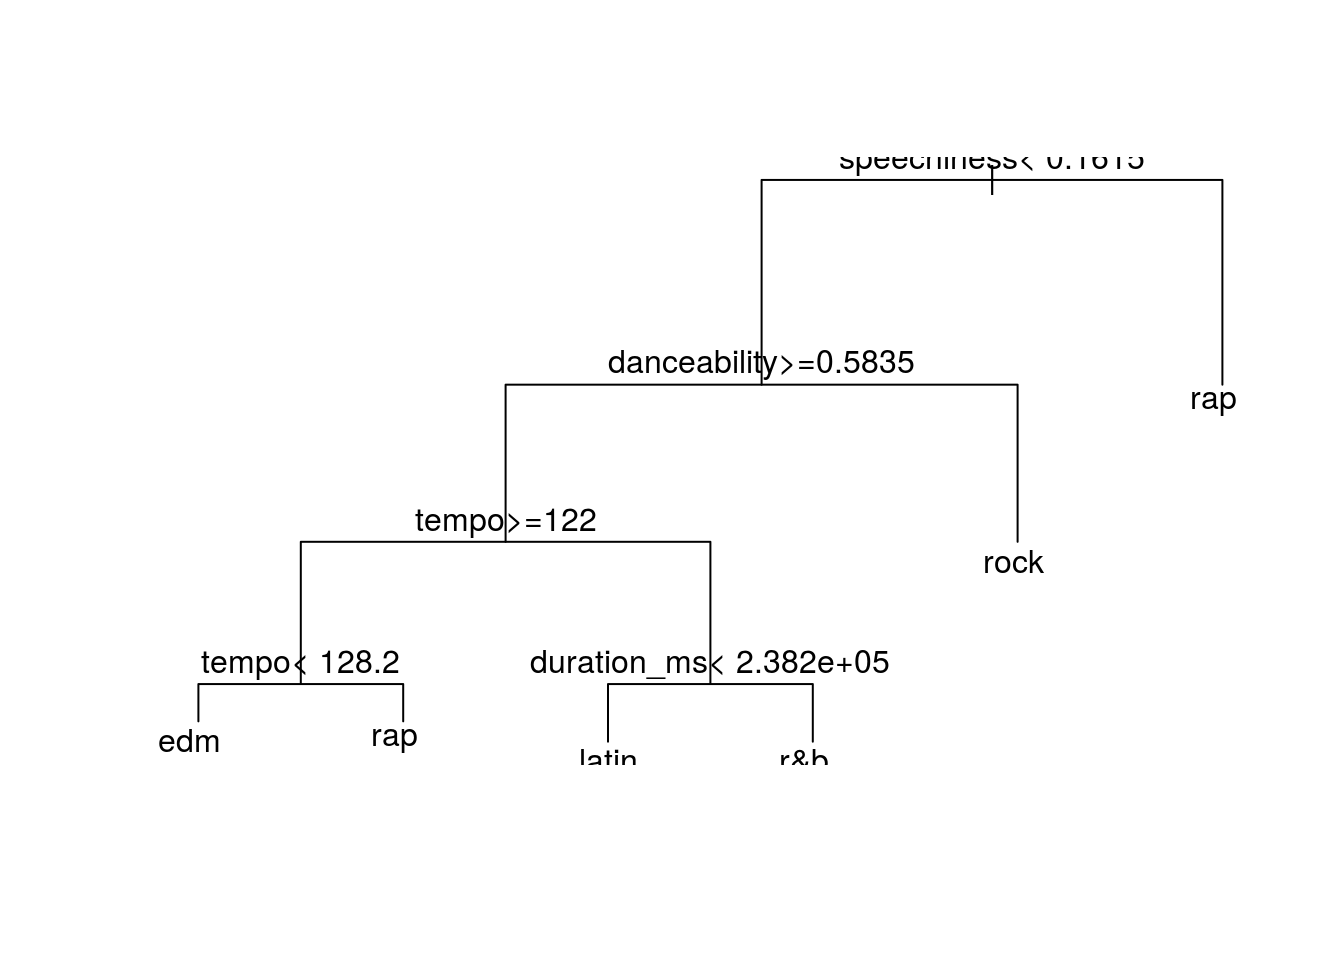
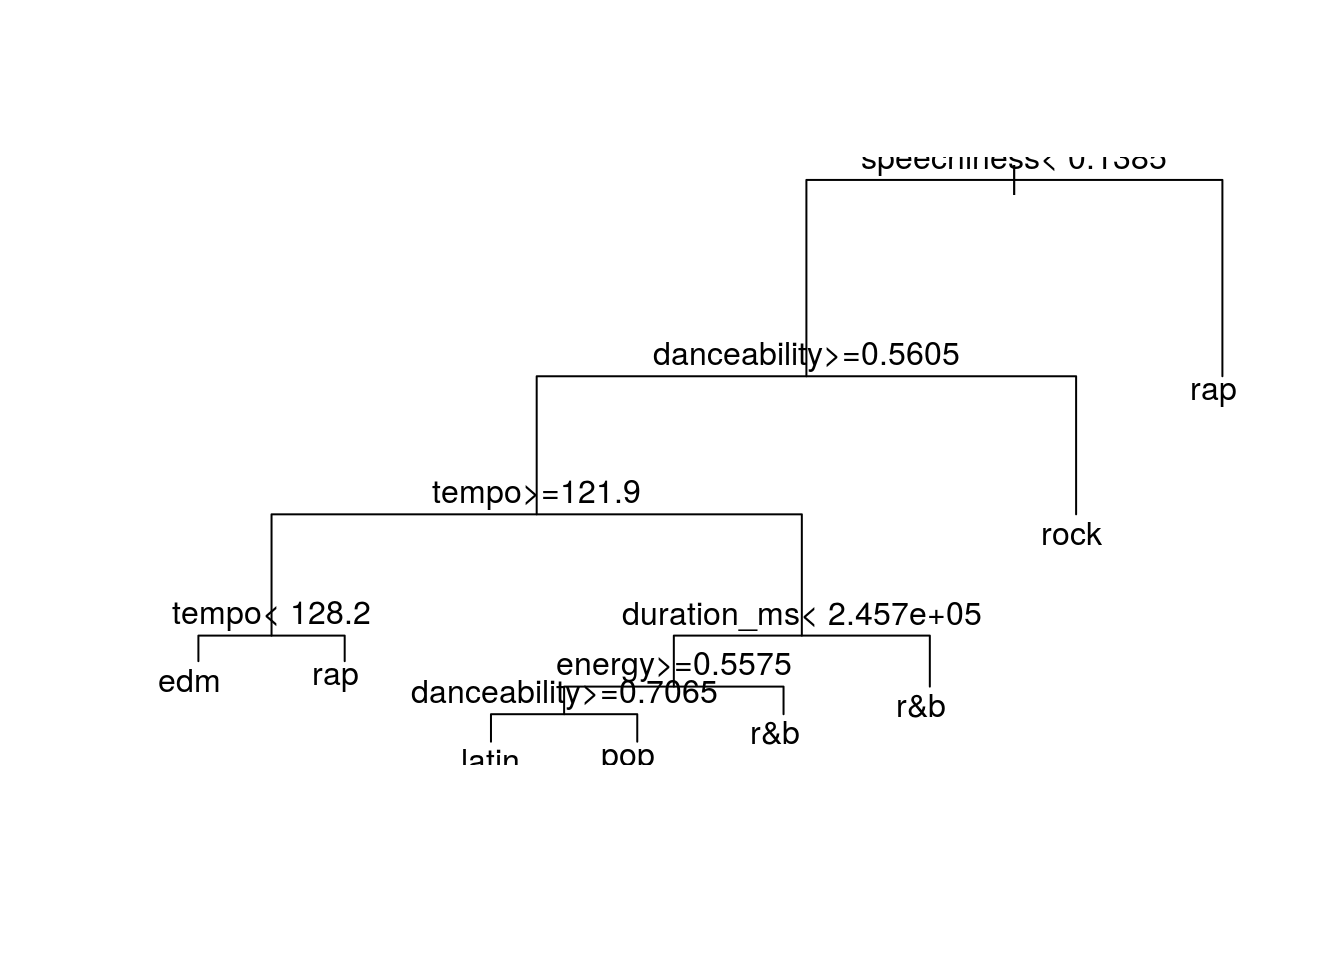
Build site.

diff --git a/docs/spotify.html b/docs/spotify.html
@@ -403,7 +403,7 @@ div.tocify {
 <div class="tab-content">
 <div id="summary" class="tab-pane fade in active">
 <p>
-<strong>Last updated:</strong> 2020-07-02
+<strong>Last updated:</strong> 2020-07-17
 </p>
 <p>
 <strong>Checks:</strong> <span class="glyphicon glyphicon-ok text-success" aria-hidden="true"></span> 7 <span class="glyphicon glyphicon-exclamation-sign text-danger" aria-hidden="true"></span> 0
@@ -446,12 +446,12 @@ This reproducible <a href="http://rmarkdown.rstudio.com">R Markdown</a> analysis
 <div class="panel panel-default">
 <div class="panel-heading">
 <p class="panel-title">
-<a data-toggle="collapse" data-parent="#workflowr-checks" href="#strongSeedstrongcodesetseed20200702code"> <span class="glyphicon glyphicon-ok text-success" aria-hidden="true"></span> <strong>Seed:</strong> <code>set.seed(20200702)</code> </a>
+<a data-toggle="collapse" data-parent="#workflowr-checks" href="#strongSeedstrongcodesetseed20200723code"> <span class="glyphicon glyphicon-ok text-success" aria-hidden="true"></span> <strong>Seed:</strong> <code>set.seed(20200723)</code> </a>
 </p>
 </div>
-<div id="strongSeedstrongcodesetseed20200702code" class="panel-collapse collapse">
+<div id="strongSeedstrongcodesetseed20200723code" class="panel-collapse collapse">
 <div class="panel-body">
-<p>The command <code>set.seed(20200702)</code> was run prior to running the code in the R Markdown file. Setting a seed ensures that any results that rely on randomness, e.g. subsampling or permutations, are reproducible.</p>
+<p>The command <code>set.seed(20200723)</code> was run prior to running the code in the R Markdown file. Setting a seed ensures that any results that rely on randomness, e.g. subsampling or permutations, are reproducible.</p>
 </div>
 </div>
 </div>
@@ -494,16 +494,16 @@ This reproducible <a href="http://rmarkdown.rstudio.com">R Markdown</a> analysis
 <div class="panel panel-default">
 <div class="panel-heading">
 <p class="panel-title">
-<a data-toggle="collapse" data-parent="#workflowr-checks" href="#strongRepositoryversionstrong6c85c34"> <span class="glyphicon glyphicon-ok text-success" aria-hidden="true"></span> <strong>Repository version:</strong> 6c85c34 </a>
+<a data-toggle="collapse" data-parent="#workflowr-checks" href="#strongRepositoryversionstrongahrefhttpsgithubcomjdblischakworkflowrspotifytree2eb4639c28c1b77ba6acb81aaeafeba2c001528ctargetblank2eb4639a"> <span class="glyphicon glyphicon-ok text-success" aria-hidden="true"></span> <strong>Repository version:</strong> <a href="https://github.com/jdblischak/workflowr-spotify/tree/2eb4639c28c1b77ba6acb81aaeafeba2c001528c" target="_blank">2eb4639</a> </a>
 </p>
 </div>
-<div id="strongRepositoryversionstrong6c85c34" class="panel-collapse collapse">
[1 lines of base64/hex data omitted]
 <div class="panel-body">
 <p>
 Great! You are using Git for version control. Tracking code development and connecting the code version to the results is critical for reproducibility.
 </p>
 <p>
-The results in this page were generated with repository version 6c85c34. See the <em>Past versions</em> tab to see a history of the changes made to the R Markdown and HTML files.
+The results in this page were generated with repository version <a href="https://github.com/jdblischak/workflowr-spotify/tree/2eb4639c28c1b77ba6acb81aaeafeba2c001528c" target="_blank">2eb4639</a>. See the <em>Past versions</em> tab to see a history of the changes made to the R Markdown and HTML files.
 </p>
 <p>
 Note that you need to be careful to ensure that all relevant files for the analysis have been committed to Git prior to generating the results (you can use <code>wflow_publish</code> or <code>wflow_git_commit</code>). workflowr only checks the R Markdown file, but you know if there are other scripts or data files that it depends on. Below is the status of the Git repository when the results were generated:
@@ -555,7 +555,41 @@ Message
 Rmd
 </td>
 <td>
-6c85c34
+<a href="https://github.com/jdblischak/workflowr-spotify/blob/2eb4639c28c1b77ba6acb81aaeafeba2c001528c/analysis/spotify.Rmd" target="_blank">2eb4639</a>
+</td>
+<td>
+John Blischak
+</td>
+<td>
+2020-07-17
+</td>
+<td>
+Update Spotify analysis so that it matches how it will appear on the day of the tutorial.
+</td>
+</tr>
+<tr>
+<td>
+html
+</td>
+<td>
+<a href="https://rawcdn.githack.com/jdblischak/workflowr-spotify/80f7ef523679f55af24d51cc21535bd0c8e7fa9c/docs/spotify.html" target="_blank">80f7ef5</a>
+</td>
+<td>
+John Blischak
+</td>
+<td>
+2020-07-02
+</td>
+<td>
+Build site.
+</td>
+</tr>
+<tr>
+<td>
+Rmd
+</td>
+<td>
+<a href="https://github.com/jdblischak/workflowr-spotify/blob/6c85c3416baf81dcdab2c3cb6fd9469405f88f5b/analysis/spotify.Rmd" target="_blank">6c85c34</a>
 </td>
 <td>
 John Blischak
@@ -605,8 +639,8 @@ dim(spotify)</code></pre>
   edm latin   pop   r&amp;b   rap  rock 
  6043  5155  5507  5431  5746  4951 </code></pre>
 <pre class="r"><code>spotify &lt;- spotify[, 1:13]</code></pre>
-<p>Split the data into training and testing sets.</p>
-<pre class="r"><code>numTrainingSamples &lt;- 3 / 4 * nrow(spotify)
+<p>Split the data into training and testing sets. The training set should have 3/4 of the samples.</p>
+<pre class="r"><code>numTrainingSamples &lt;- nrow(spotify) * 3/4
 trainingSet &lt;- sample(seq_len(nrow(spotify)), size = numTrainingSamples)
 spotifyTraining &lt;- spotify[trainingSet, ]
 spotifyTesting &lt;- spotify[-trainingSet, ]</code></pre>
@@ -616,30 +650,67 @@ model &lt;- rpart(genre ~ ., data = spotifyTraining)
 plot(model)
 text(model)</code></pre>
 <p><img src="figure/spotify.Rmd/classification-1.png" width="672" style="display: block; margin: auto;" /></p>
+<p>
+<button type="button" class="btn btn-default btn-xs btn-workflowr btn-workflowr-fig" data-toggle="collapse" data-target="#fig-classification-1">
+Past versions of classification-1.png
+</button>
+</p>
+<div id="fig-classification-1" class="collapse">
+<div class="table-responsive">
+<table class="table table-condensed table-hover">
+<thead>
+<tr>
+<th>
+Version
+</th>
+<th>
+Author
+</th>
+<th>
+Date
+</th>
+</tr>
+</thead>
+<tbody>
+<tr>
+<td>
+<a href="https://github.com/jdblischak/workflowr-spotify/blob/80f7ef523679f55af24d51cc21535bd0c8e7fa9c/docs/figure/spotify.Rmd/classification-1.png" target="_blank">80f7ef5</a>
+</td>
+<td>
+John Blischak
+</td>
+<td>
+2020-07-02
+</td>
+</tr>
+</tbody>
+</table>
+</div>
+</div>
 <p>Calculate prediction accuracy of the model on the training and testing sets.</p>
 <pre class="r"><code>predictTraining &lt;- predict(model, type = &quot;class&quot;)
 (accuracyTraining &lt;- mean(spotifyTraining[, 1] == predictTraining))</code></pre>
-<pre><code>[1] 0.3920159</code></pre>
+<pre><code>[1] 0.4036712</code></pre>
 <pre class="r"><code>predictTesting &lt;- predict(model, newdata = spotifyTesting[, -1], type = &quot;class&quot;)
 (accuracyTesting &lt;- mean(spotifyTesting[, 1] == predictTesting))</code></pre>
-<pre><code>[1] 0.3857961</code></pre>
+<pre><code>[1] 0.4000487</code></pre>
 <p>Evaluate prediction performance using a confusion matrix.</p>
 <pre class="r"><code>table(predicted = predictTesting, observed = spotifyTesting[, 1])</code></pre>
 <pre><code>         observed
-predicted edm latin pop r&amp;b rap rock
-    edm   621   112 171  56  52   60
-    latin 178   469 419 270 190  120
-    pop     0     0   0   0   0    0
-    r&amp;b    55   134  93 284  91  114
-    rap   309   396 305 487 984  168
-    rock  382   143 368 261 108  809</code></pre>
+predicted  edm latin  pop  r&amp;b  rap rock
+    edm    615   129  220   62   33   67
+    latin   70   292  135  111   74   19
+    pop     77   120  224   86   36   94
+    r&amp;b     71   171  165  359  140  157
+    rap    397   439  341  535 1047  178
+    rock   254    92  306  230  116  747</code></pre>
 <p>How does the model compare to random guessing?</p>
 <pre class="r"><code>predictRandom &lt;- sample(unique(spotifyTesting[, 1]),
                         size = nrow(spotifyTesting),
                         replace = TRUE,
                         prob = table(spotifyTesting[, 1]))
 (accuracyRandom &lt;- mean(spotifyTesting[, 1] == predictRandom))</code></pre>
-<pre><code>[1] 0.1678645</code></pre>
+<pre><code>[1] 0.1612864</code></pre>
 <br>
 <p>
 <button type="button" class="btn btn-default btn-workflowr btn-workflowr-sessioninfo" data-toggle="collapse" data-target="#workflowr-sessioninfo" style="display: block;">
